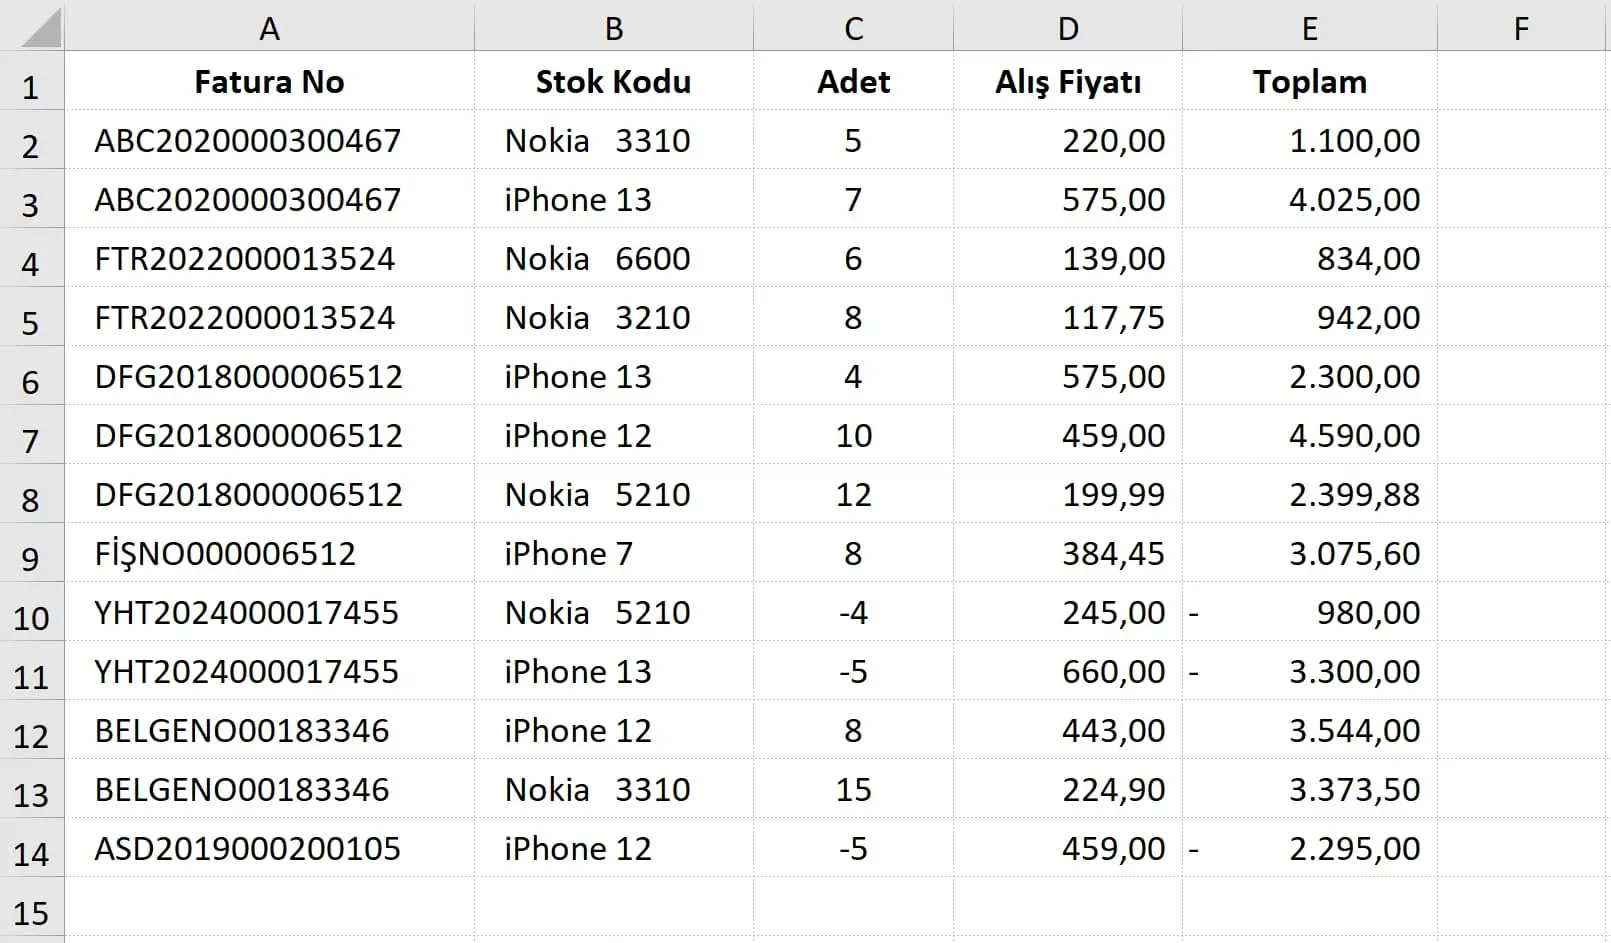
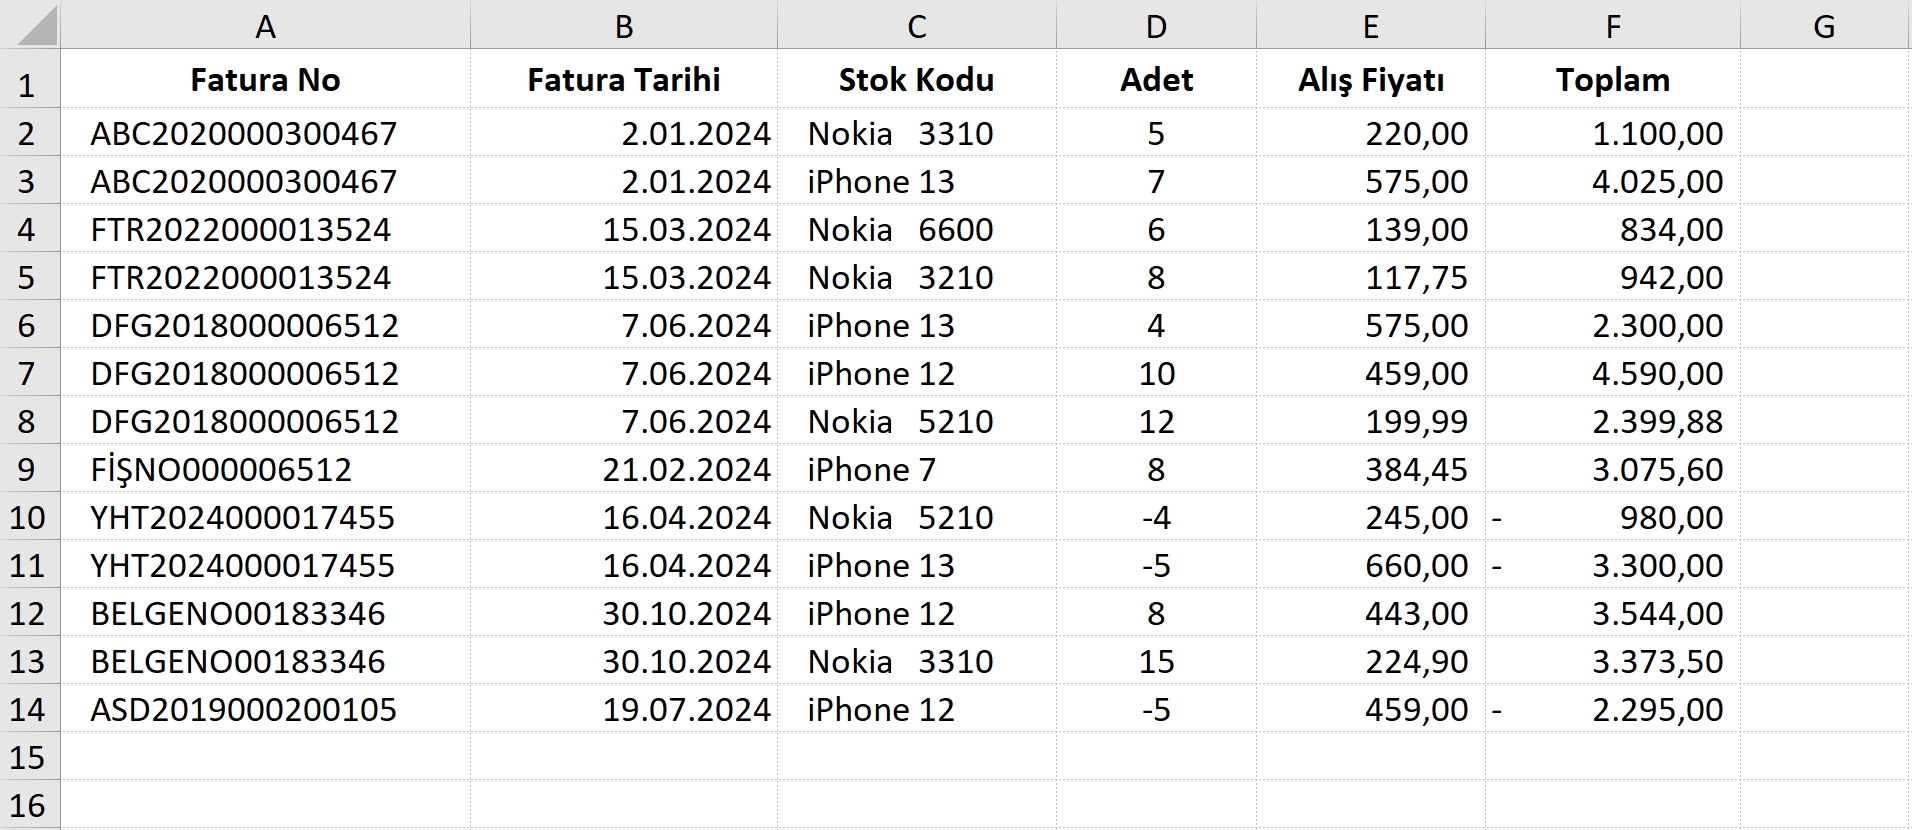
stok modeline tarih sutunu eklendi

diff --git a/etikom/templates/etikom/stokharaketleri.html b/etikom/templates/etikom/stokharaketleri.html
@@ -6,7 +6,7 @@
         <dt class="col-sm-3 text-warning text-uppercase"><h4>{{ firma_adi }} <small class="blockquote-footer text-capitalize">Stok Haraketleri</small></h4></dt>
         <dd class="col-sm-9">
             <p class="m-0">
-                Değiştirmek veya silmek istediğiniz satırın detayı için <strong>Kalem <svg class="bi text-primary"><use xlink:href="#kalem"></use></svg></strong> simgesine, fatura yada siparişe ait ayrıntılar için <strong>Belge No</strong>'suna, ürüne ait işlem geçmişi içinde <strong>Stok Kodu</strong>'na tıklayabilirsiniz.
+                Değiştirmek veya silmek istediğiniz satırın detayı için <strong>Kalem <svg class="bi text-primary"><use xlink:href="#kalem"></use></svg></strong> simgesine, fatura yada siparişe ait ayrıntılar için <strong>Fatura / Sipariş No</strong>'suna, ürüne ait işlem geçmişi içinde <strong>Stok Kodu</strong>'na tıklayabilirsiniz.
             </p>
         </dd>
     </dl>
@@ -64,6 +64,9 @@
                     <th scope="col">Fatura / Sipariş No<br>
                         (<a href="{% url 'hareketsiralamaurl' sort='az-fatura-no' %}">A</a>↔<a href="{% url 'hareketsiralamaurl' sort='za-fatura-no' %}">Z</a>)
                     </th>
+                    <th scope="col">Tarih<br>
+                        (<a href="{% url 'hareketsiralamaurl' sort='az-tarih' %}">A</a>↔<a href="{% url 'hareketsiralamaurl' sort='za-tarih' %}">Z</a>)
+                    </th>
                     <th scope="col">Stok Kodu<br>
                         (<a href="{% url 'hareketsiralamaurl' sort='az-stok-kodu' %}">A</a>↔<a href="{% url 'hareketsiralamaurl' sort='za-stok-kodu' %}">Z</a>)
                     </th>
@@ -89,6 +92,9 @@
                     </td>
                     <td>
                         <a href="{% url 'stokfaturasiurl' sort=stok.Afaturano %}">{{ stok.Afaturano }}</a>
+                    </td>
+                    <td class="text-center">
+                        {{ stok.Alistarihi }}
                     </td>
                     <td>
                         <a href="{% url 'stokgecmisiurl' sort=stok.Stokkodu %}">{{ stok.Stokkodu }}</a>

diff --git a/etikom/static/css/bootstrap.css b/etikom/static/css/bootstrap.css
@@ -117,7 +117,7 @@ select#id_Stokkodu {
     max-width: 170px;
     width: -webkit-fill-available;
 }
-input#baslik, input#tarih, input#tutar, input#siparisno, input#stokkodu, input#adet, input#desi, input#iadetutari, input#kargotutari, input#hizmetbedeli, input#islembedeli, input#pazaryeri, input#satisfiyati, input#komisyon, input#faturano, input#alisfiyati, input#toplam, input#sayi1, input#sayi2, input#sayi3, input#sayi4, input#sayi5 {
+input#baslik, input#tarih, input#alistarihi, input#tutar, input#siparisno, input#stokkodu, input#adet, input#desi, input#iadetutari, input#kargotutari, input#hizmetbedeli, input#islembedeli, input#pazaryeri, input#satisfiyati, input#komisyon, input#faturano, input#alisfiyati, input#toplam, input#sayi1, input#sayi2, input#sayi3, input#sayi4, input#sayi5 {
     text-align: right;
 }
 .g-3 input {

diff --git a/etikom/templates/etikom/stokekle.html b/etikom/templates/etikom/stokekle.html
@@ -25,6 +25,12 @@
                     </div>
                 </div>
                 <div class="row mb-3">
+                    <label class="col-sm-4 col-form-label">Fatura Tarihi</label>
+                    <div class="col-sm-8">
+                        {{ form.Alistarihi }}
+                    </div>
+                </div>
+                <div class="row mb-3">
                     <label class="col-sm-4 col-form-label">Stok Kodu</label>
                     <div class="col-sm-8">
                         {{ form.Stokkodu }}

diff --git a/etikom/templates/etikom/stokharaketdetayi.html b/etikom/templates/etikom/stokharaketdetayi.html
@@ -25,6 +25,12 @@
                     </div>
                 </div>
                 <div class="row mb-3">
+                    <label class="col-sm-4 col-form-label">Fatura Tarihi</label>
+                    <div class="col-sm-8">
+                        {{ form.Alistarihi }}
+                    </div>
+                </div>
+                <div class="row mb-3">
                     <label class="col-sm-4 col-form-label">Stok Kodu</label>
                     <div class="col-sm-8">
                         {{ form.Stokkodu }}

diff --git a/etikom/templates/etikom/faturakontrol.html b/etikom/templates/etikom/faturakontrol.html
@@ -98,7 +98,7 @@
                     <td class="text-end">
                         {{ siparis.Satisfiyati }}
                     </td>
-                    <td class="text-center">
+                    <td class="text-end">
                         {{ siparis.Adet }}
                     </td>
                     <td class="text-end">

diff --git a/etikom/forms.py b/etikom/forms.py
@@ -127,13 +127,14 @@ class StokFormu(forms.ModelForm):
 
     class Meta:
         model = Stok
-        fields = ('Afaturano', 'Stokkodu', 'Adet', 'Alisfiyati', 'Toplam')
-        labels = {"Stokkodu" : "Stok Kodu", "Alisfiyati" : "Alış Fiyatı", "Afaturano" : "Fatura No"}
+        fields = ('Afaturano', 'Alistarihi', 'Stokkodu', 'Adet', 'Alisfiyati', 'Toplam')
+        labels = {"Stokkodu" : "Stok Kodu", "Alisfiyati" : "Alış Fiyatı", "Afaturano" : "Fatura No", "Alistarihi" : "Tarih"}
         widgets = {
             'Afaturano': forms.TextInput(attrs={'placeholder': 'FTR202400001234', 'class': 'form-control', 'id': 'faturano'}),
             'Stokkodu': forms.TextInput(attrs={'placeholder': 'iPhone 12', 'class': 'form-control', 'id': 'stokkodu'}),
             'Adet': forms.TextInput(attrs={'placeholder': '4', 'class': 'form-control', 'id': 'adet'}),
             'Alisfiyati': forms.TextInput(attrs={'placeholder': '27.50', 'class': 'form-control', 'id': 'alisfiyati'}),
             'Toplam': forms.TextInput(attrs={'placeholder': '110.00', 'class': 'form-control', 'id': 'toplam'}),
+            'Alistarihi': forms.DateInput(attrs={'type': 'date', 'class': 'form-control', 'id': 'alistarihi'})
         }
 

diff --git a/etikom/views.py b/etikom/views.py
@@ -111,6 +111,10 @@ def stokharaketleriyap(request, sort=None):
         stok = Stok.objects.filter(Firmaadi=firma_adi_id).order_by('Afaturano').values()
     elif sort == 'za-fatura-no':
         stok = Stok.objects.filter(Firmaadi=firma_adi_id).order_by('-Afaturano').values()
+    elif sort == 'az-tarih':
+        stok = Stok.objects.filter(Firmaadi=firma_adi_id).order_by('Alistarihi').values()
+    elif sort == 'za-tarih':
+        stok = Stok.objects.filter(Firmaadi=firma_adi_id).order_by('-Alistarihi').values()
     elif sort == 'az-stok-kodu':
         stok = Stok.objects.filter(Firmaadi=firma_adi_id).order_by('Stokkodu').values()
     elif sort == 'za-stok-kodu':
@@ -800,6 +804,7 @@ def stokexceliyuklemeyap(request):
                 tur = 'A' if row['Adet'] > 0 else 'T'
                 stok = Stok(
                     Afaturano = row['Fatura No'],
+                    Alistarihi = row['Fatura Tarihi'],
                     Stokkodu = row['Stok Kodu'],
                     Adet = row['Adet'],
                     Alisfiyati = row['Fiyat'],

diff --git a/etikom/migrations/0021_stok_alistarihi.py b/etikom/migrations/0021_stok_alistarihi.py
@@ -1,0 +1,18 @@
+# Generated by Django 5.0.3 on 2025-09-05 18:40
+
+from django.db import migrations, models
+
+
+class Migration(migrations.Migration):
+
+    dependencies = [
+        ('etikom', '0020_alter_gider_options_kargo_islembedeli'),
+    ]
+
+    operations = [
+        migrations.AddField(
+            model_name='stok',
+            name='Alistarihi',
+            field=models.DateField(blank=True, null=True),
+        ),
+    ]

diff --git a/etikom/models.py b/etikom/models.py
@@ -82,6 +82,7 @@ class Stok(models.Model):
     Alisfiyati = models.DecimalField(max_digits=10, decimal_places=2)
     Toplam = models.DecimalField(max_digits=10, decimal_places=2)
     Tur = models.CharField(max_length=20, null=True)
+    Alistarihi = models.DateField(null=True, blank=True)
     
     def save1(self, *args, **kwargs):
         self.Toplam = self.Adet * self.Alisfiyati

diff --git a/etikom/admin.py b/etikom/admin.py
@@ -11,7 +11,7 @@ from .forms import SiparisFormu
 
 
 class StokAdmin(admin.ModelAdmin):
-    list_display = ('id', 'Firmaadi', 'Tur', 'Afaturano', 'Stokkodu', 'Adet', 'Alisfiyati', 'Toplam')
+    list_display = ('id', 'Firmaadi', 'Tur', 'Afaturano', 'Stokkodu', 'Adet', 'Alisfiyati', 'Alistarihi', 'Toplam')
 
 class SiparisAdmin(admin.ModelAdmin):
     form = SiparisFormu
